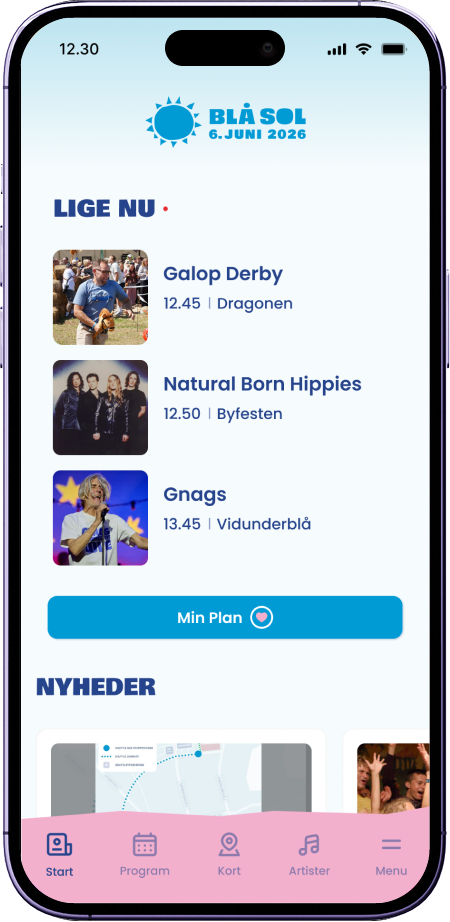
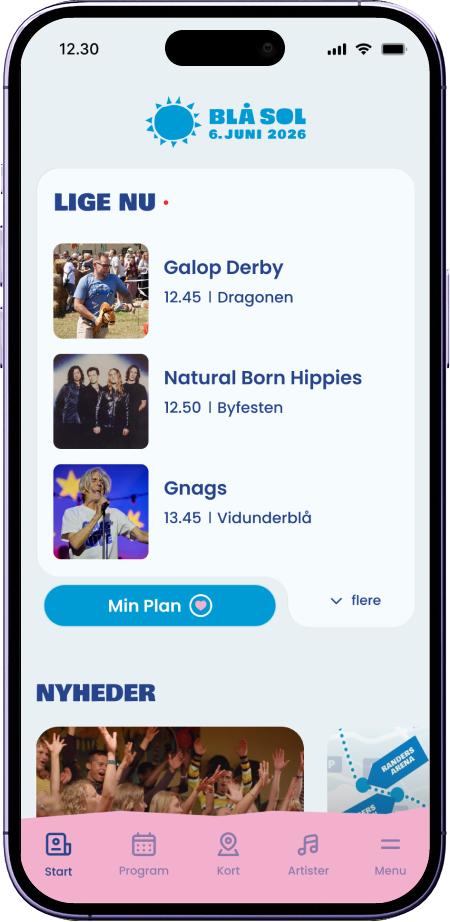
잘못된 이미지 정리

diff --git a/src/views/AboutPage.module.css b/src/views/AboutPage.module.css
@@ -236,7 +236,7 @@
   }
 
   .subHeading {
-    font-size: 28px;
+    font-size: 24px;
     margin-bottom: 48px;
   }
 
